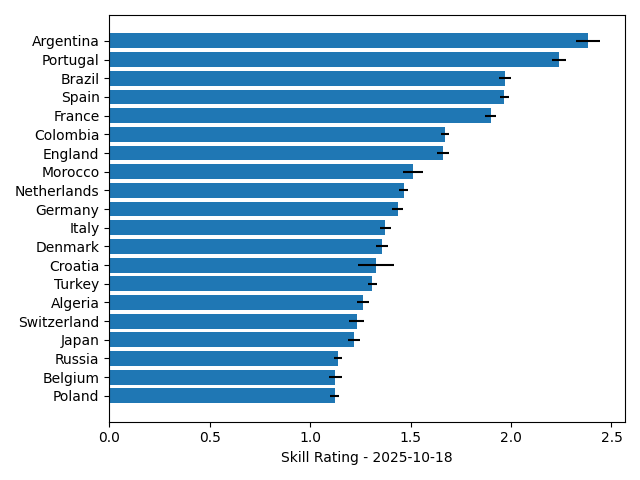
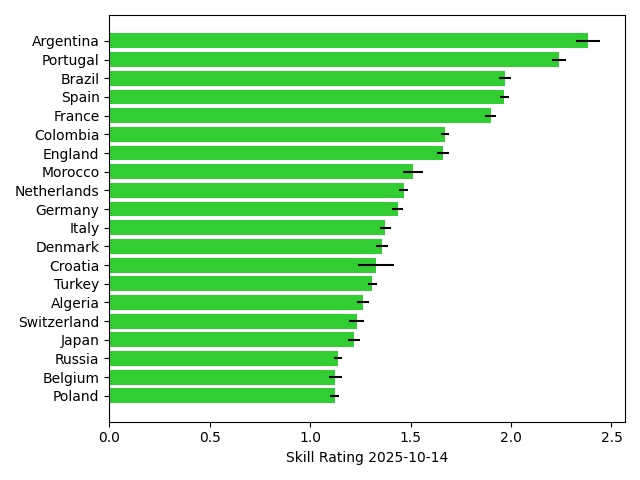
Tidy up smoothing plot

Changed region(s): [[0.1562, 0.0625, 0.9375, 0.8438], [0.4375, 0.9375, 0.7188, 0.9688]]

diff --git a/quickstart.py b/quickstart.py
@@ -1,5 +1,5 @@
 from typing import NamedTuple
-from jax import random, jit, numpy as jnp, Array, vmap
+from jax import numpy as jnp, Array, vmap
 from jax.scipy.stats import norm
 from jax.nn import sigmoid
 import pandas as pd
@@ -119,6 +119,7 @@ match_data = MatchData(match_times, match_times_prev, match_team_indices, match_
 
 ### Define (taylor) model
 num_teams = len(teams_id_to_name_dict)
+
 # Params from https://doi.org/10.1093/jrsssc/qlae035
 init_sd = 0.5**0.5
 tau = 0.05
@@ -183,9 +184,9 @@ top_team_means = mean[top_team_inds]
 cov = filter_states.chol_cov[-1] @ filter_states.chol_cov[-1].T
 top_team_stds = jnp.sqrt(jnp.diag(cov) ** 2)[top_team_inds]
 
-plt.barh(top_team_names, top_team_means, xerr=top_team_stds)
-today = pd.Timestamp.today().strftime("%Y-%m-%d")
-plt.xlabel(f"Skill Rating - {today}")
+plt.barh(top_team_names, top_team_means, xerr=top_team_stds, color="limegreen")
+last_match_date = football_data["date"].max().strftime("%Y-%m-%d")
+plt.xlabel(f"Skill Rating {last_match_date}")
 plt.show()
 plt.tight_layout()
 plt.savefig("docs/assets/international_football_latest_skill_rating.png")
@@ -203,7 +204,7 @@ top_teams_over_time_inds = jnp.argsort(mean)[-10:][::-1]
 top_team_names_over_time = [
     teams_id_to_name_dict[int(i)] for i in top_teams_over_time_inds
 ]
-match_times_over_time = match_times[time_ind_start:]
+match_dates_over_time = football_data["date"][time_ind_start:]
 top_team_means_over_time = smoother_states.mean[
     time_ind_start:, top_teams_over_time_inds
 ]
@@ -212,17 +213,40 @@ all_covs_diag = vmap(lambda x: jnp.diag(x @ x.T))(
 )
 top_team_stds_over_time = jnp.sqrt(all_covs_diag[:, top_teams_over_time_inds])
 
+interesting_dates = {
+    "Spain 1\nNetherlands 0": "2010-07-11",
+    "Germany 1\nArgentina 0": "2014-07-13",
+    "France 4\nCroatia 2": "2018-07-15",
+    "Argentina 3(pens)\nFrance 3": "2022-12-18",
+}
+
+
 plt.plot(
-    match_times_over_time,
+    match_dates_over_time,
     top_team_means_over_time[:],
     label=top_team_names_over_time,
+    alpha=0.6,
 )
-plt.legend(top_team_names_over_time)
+
+for name, date in interesting_dates.items():
+    date = pd.to_datetime(date)
+    # Add name as little annotation at the date, vertical orientation
+    ylim_top = plt.ylim()[1]
+    plt.annotate(
+        name,
+        (date, ylim_top - 0.01),  # type: ignore
+        rotation=90,
+        fontsize=6,
+        fontweight="bold",
+        va="top",
+        ha="right",
+    )
+
+plt.legend(top_team_names_over_time, loc="lower right", fontsize=9)
 plt.ylabel("Skill Rating")
 plt.show()
 plt.tight_layout()
 plt.savefig("docs/assets/international_football_historical_skill_rating.png")
 
 
-### TODO: Change x-axis to be dates/years
 ### TODO: Can the figures be updated in the docs automatically on every-re-run?
